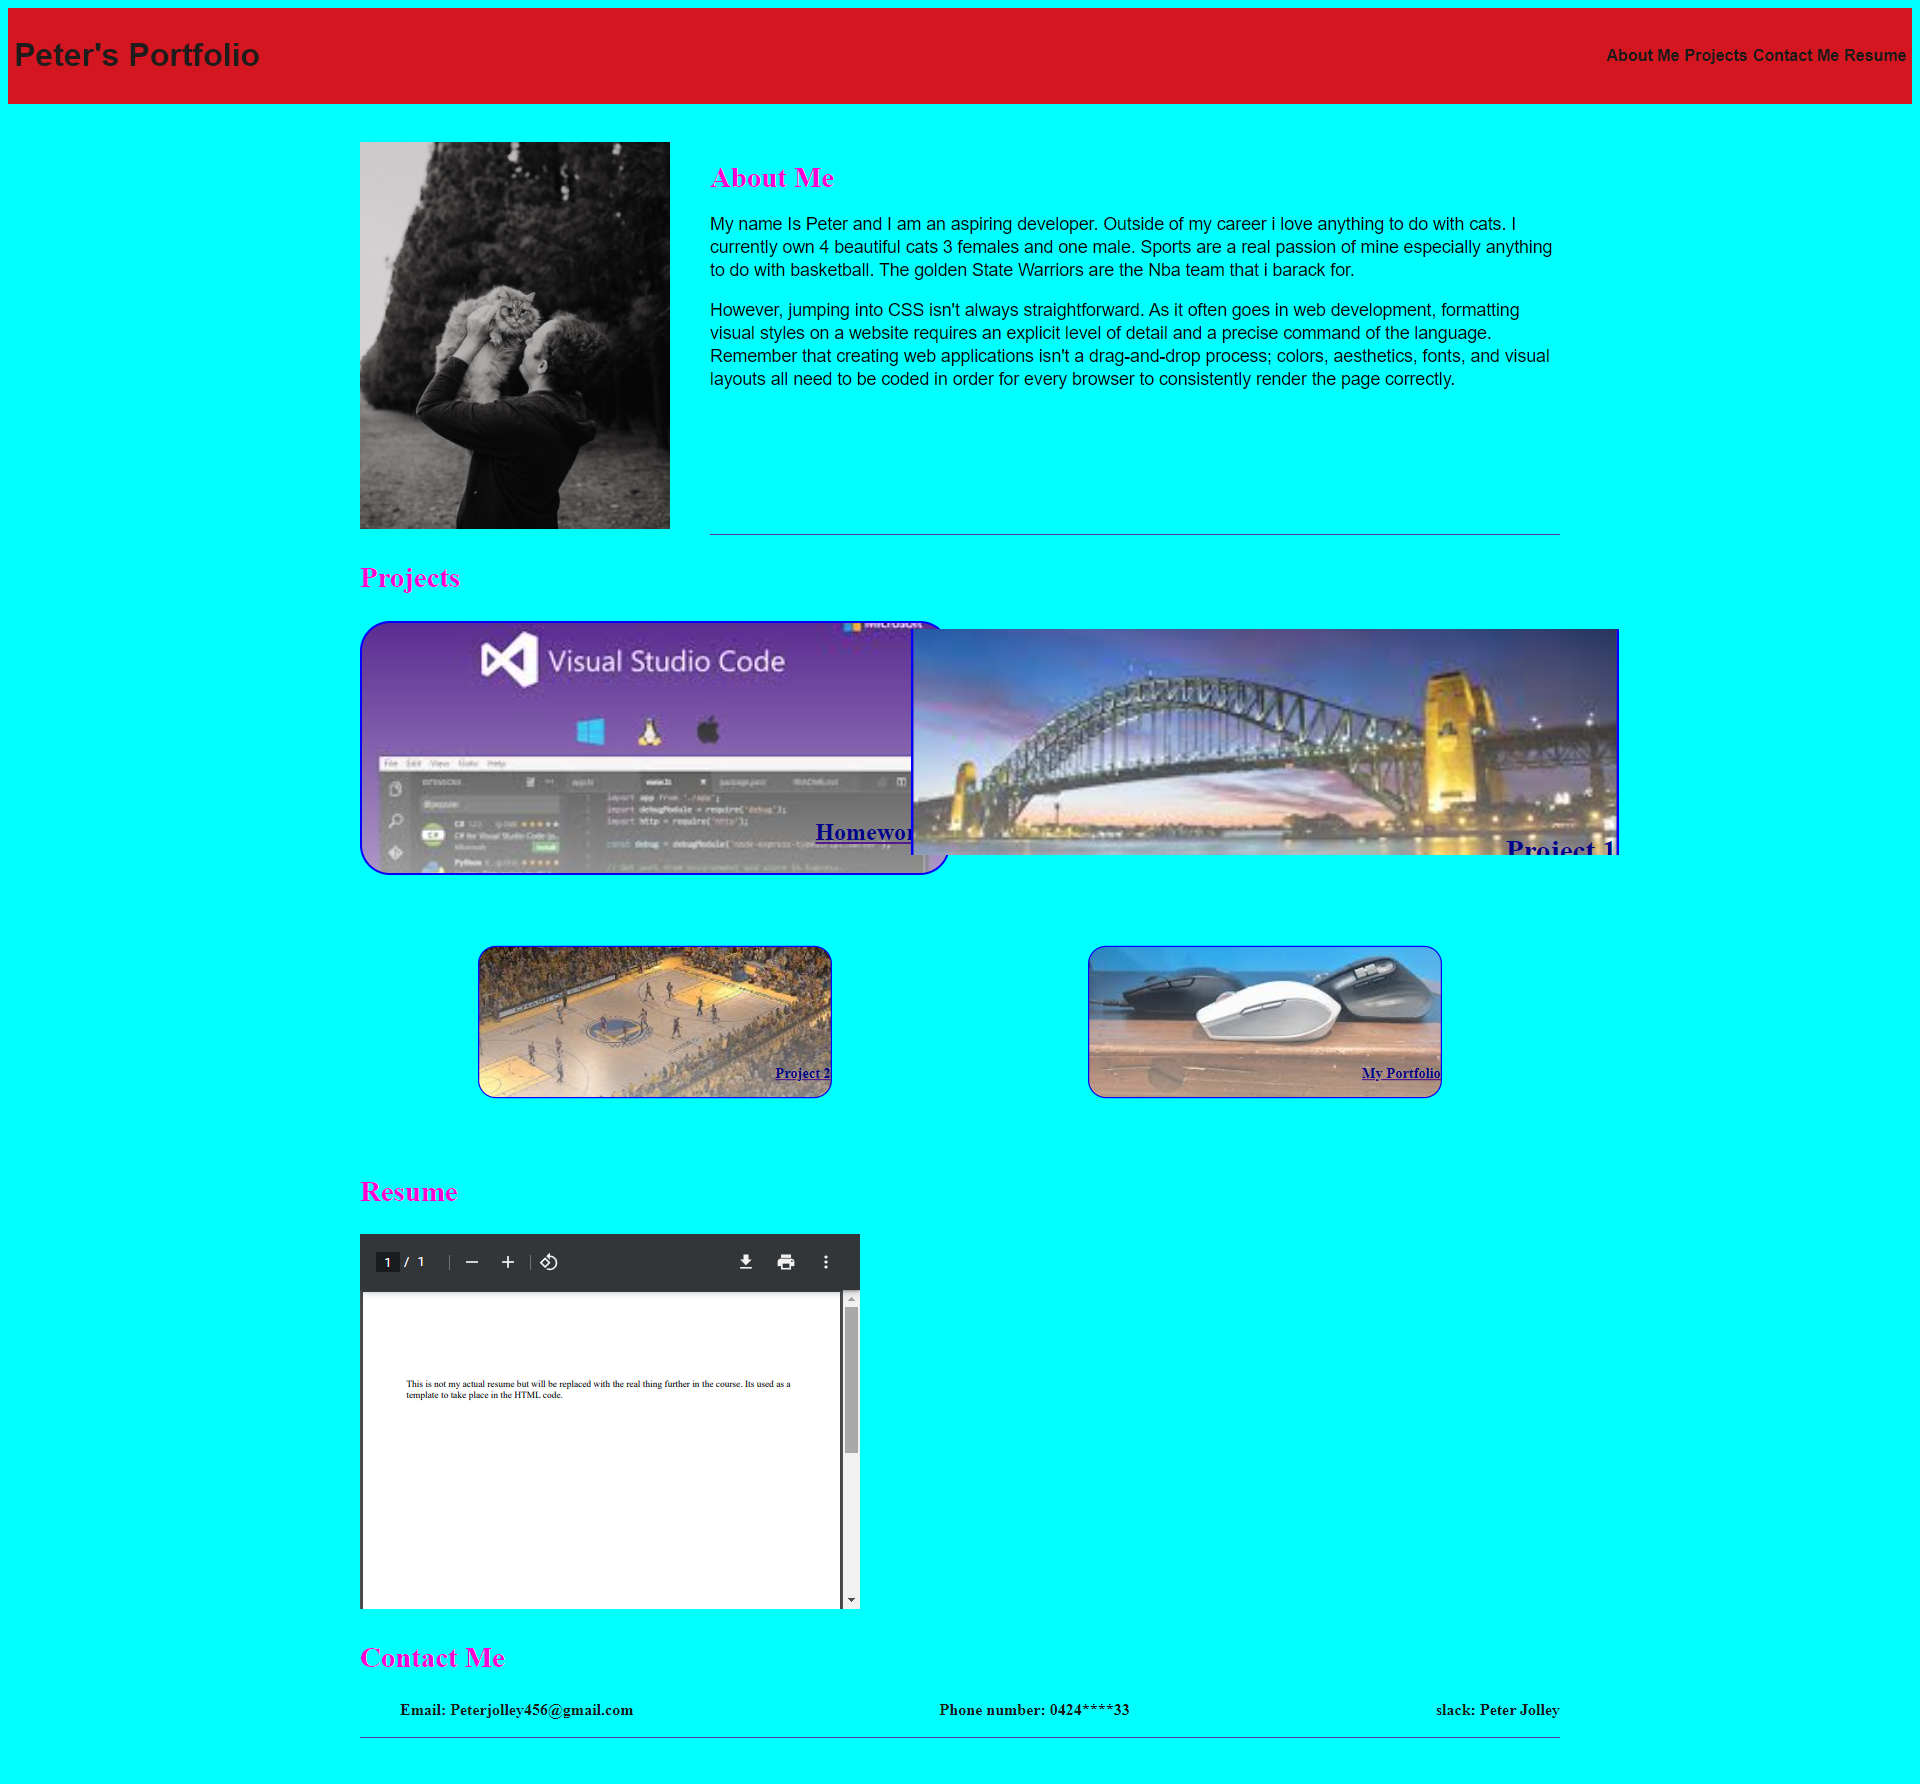
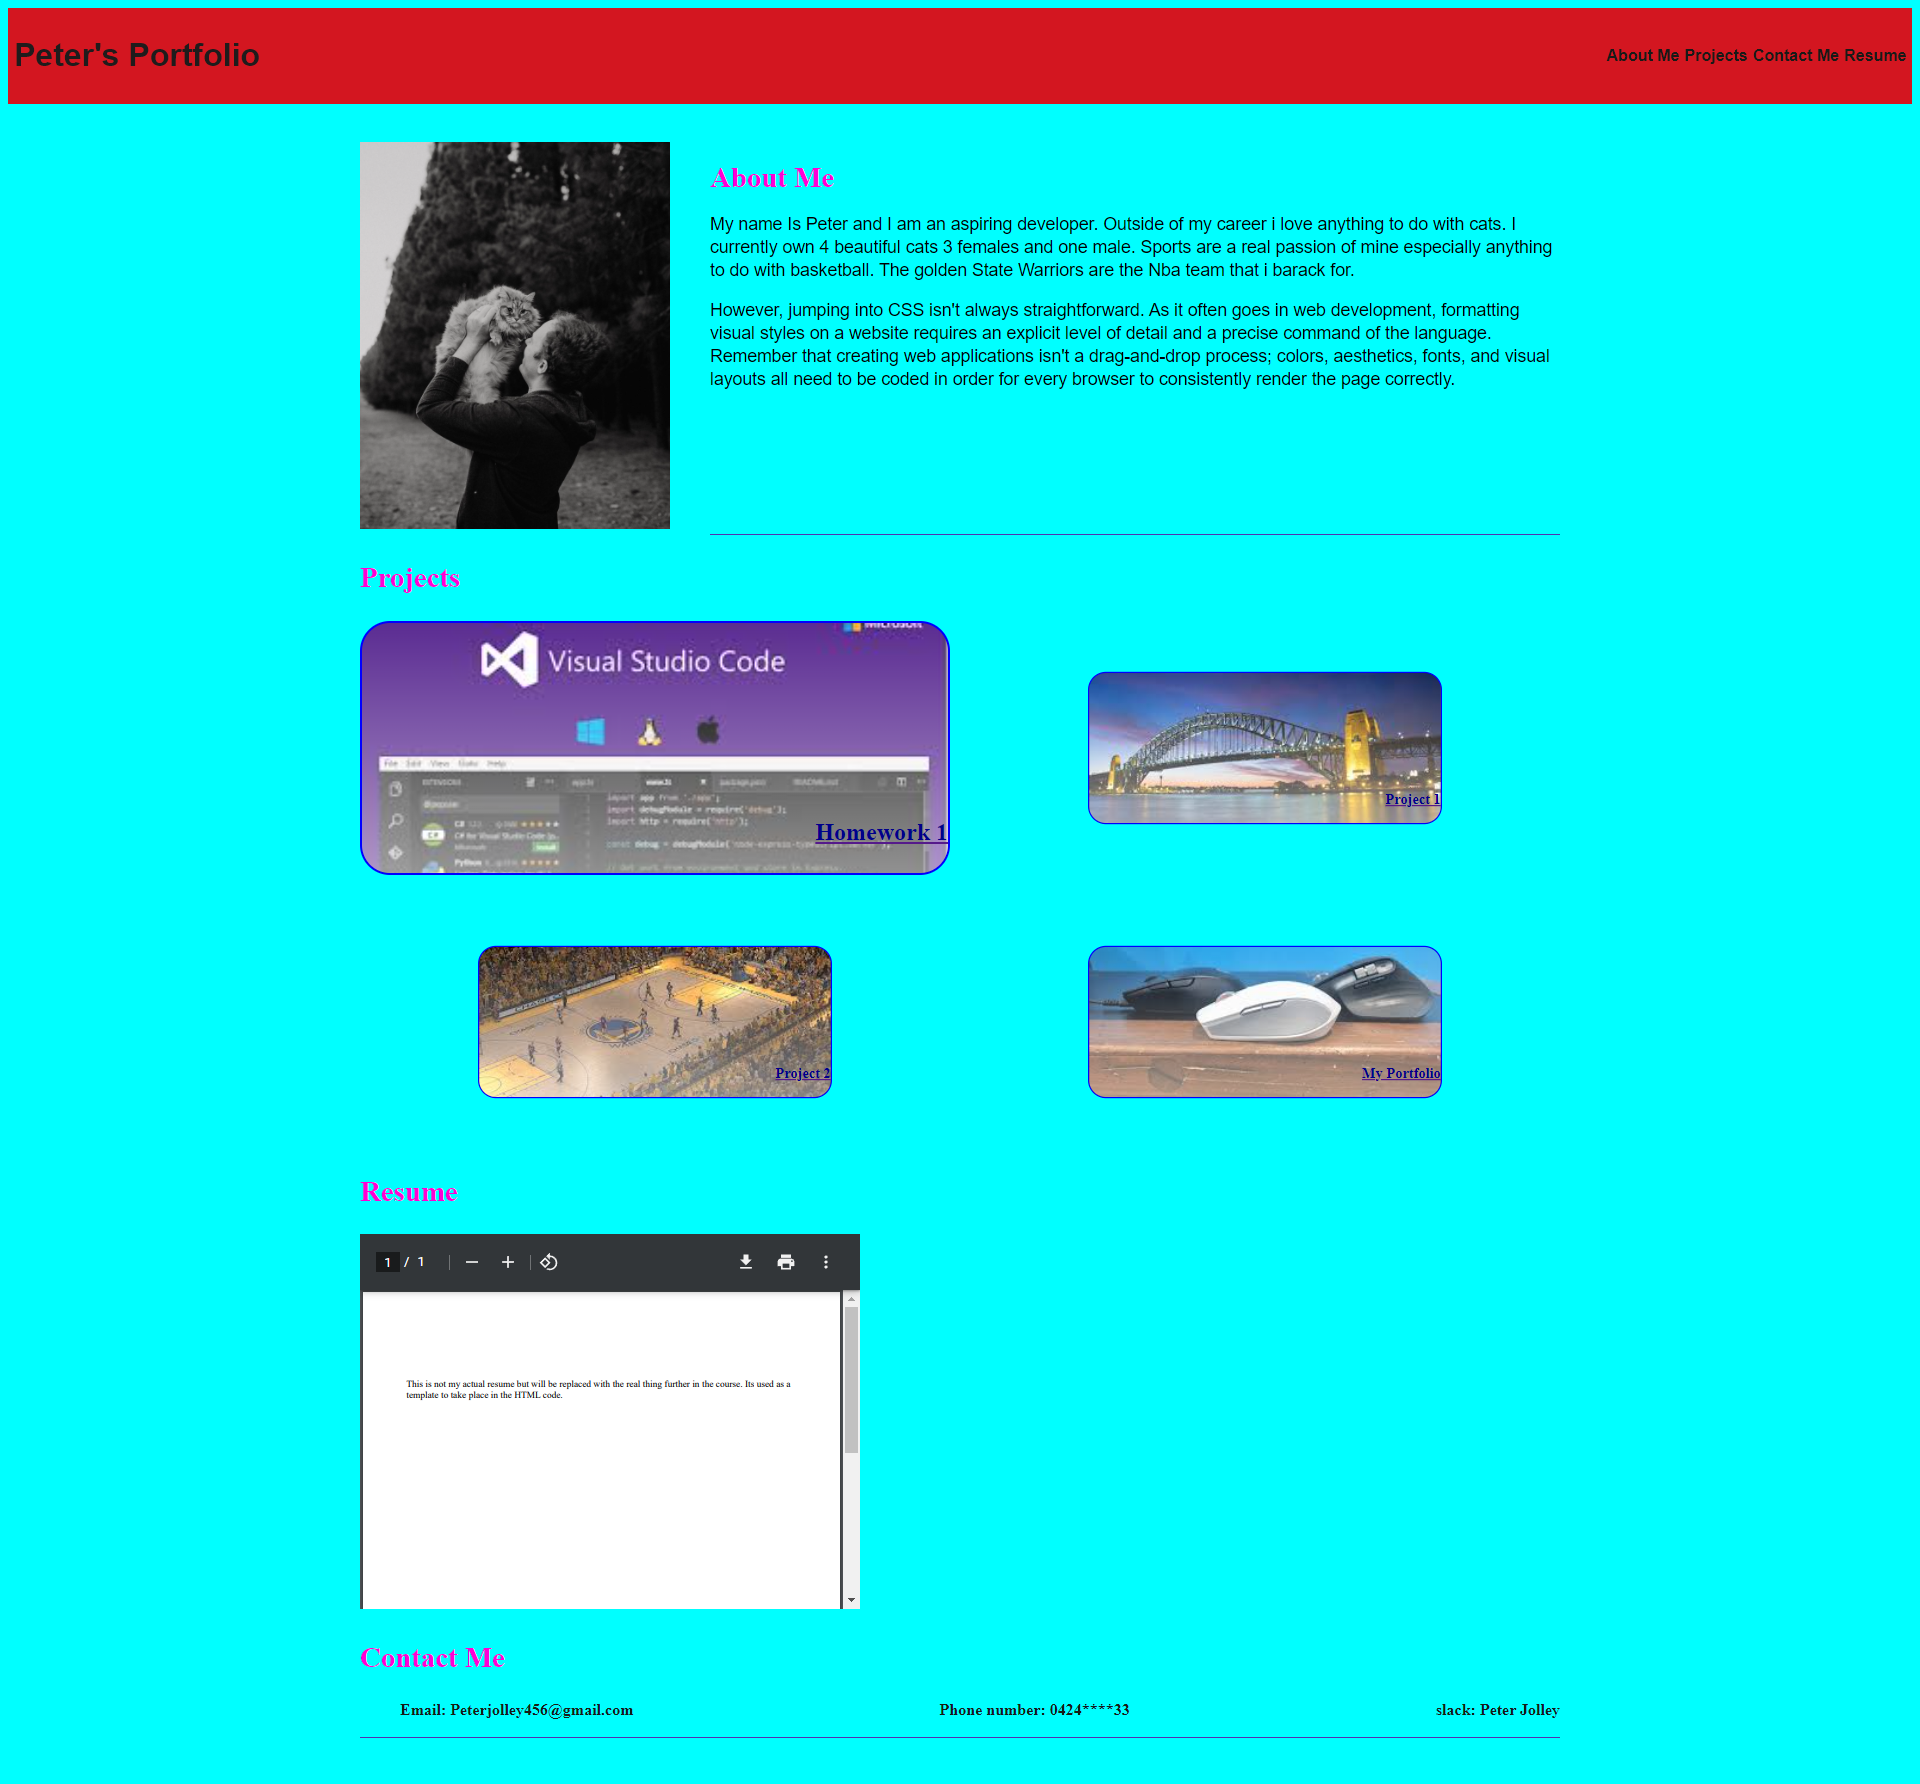
Final changes made

Changed region(s): [[0.4688, 0.3391, 0.8438, 0.4933], [0.4375, 0.7399, 0.4688, 0.8016]]

diff --git a/index.html b/index.html
@@ -41,17 +41,9 @@
               anything to do with cats. I currently own 4 beautiful cats 3 females and one male. Sports are a real
               passion of mine especially anything to do with basketball. The golden State Warriors are the Nba team that
               i barack for.</span>
-
-
-          <p>
-            However, jumping into CSS isn't always straightforward. As it
-            often goes in web development, formatting visual styles on a
-            website requires an explicit level of detail and a precise command
-            of the language. Remember that creating web applications isn't a
-            drag-and-drop process; colors, aesthetics, fonts, and visual
-            layouts all need to be coded in order for every browser to
-            consistently render the page correctly.
           </p>
+          <p>
+            <span data-descr="My-bio">Proffesionally i have worked in retail as a dairy manager and for the past 4 years in health. </span>
 
         </div>
       </article>
